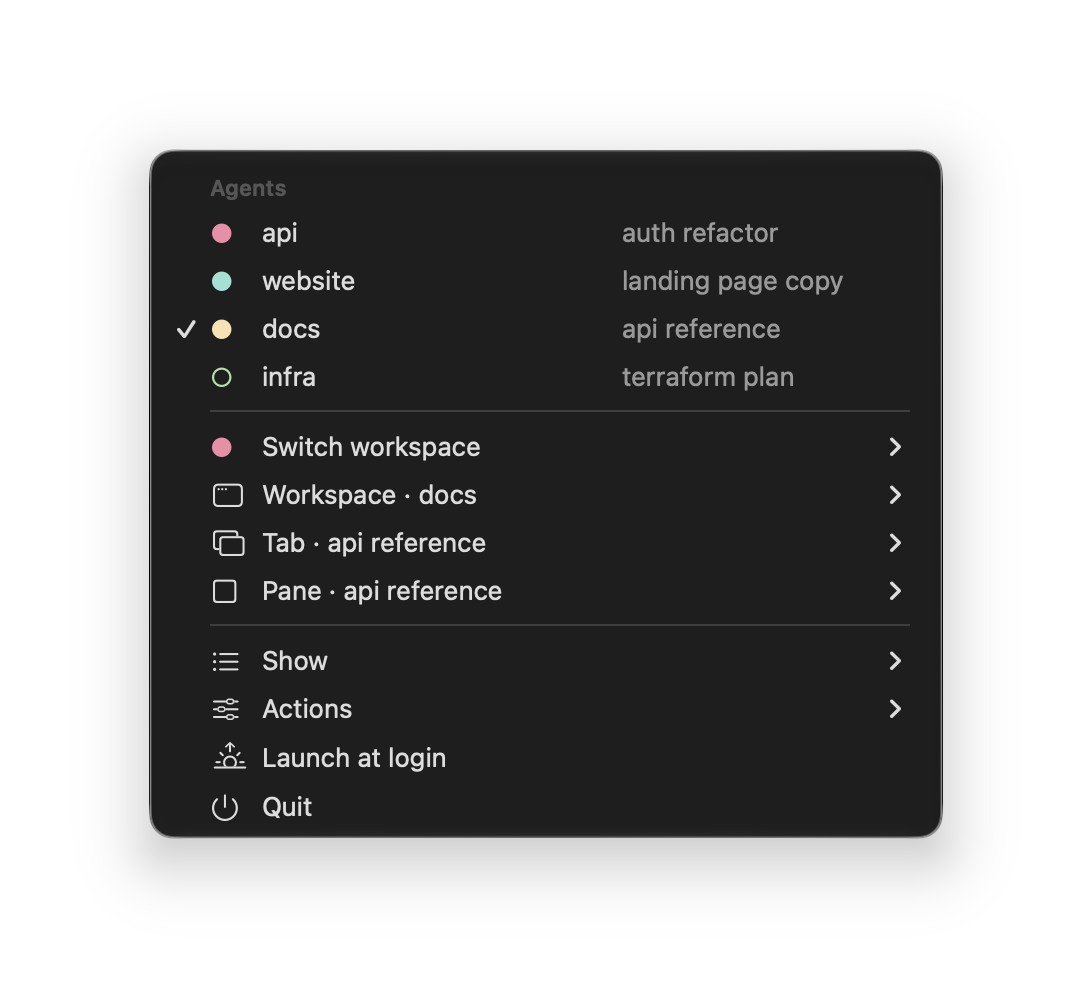
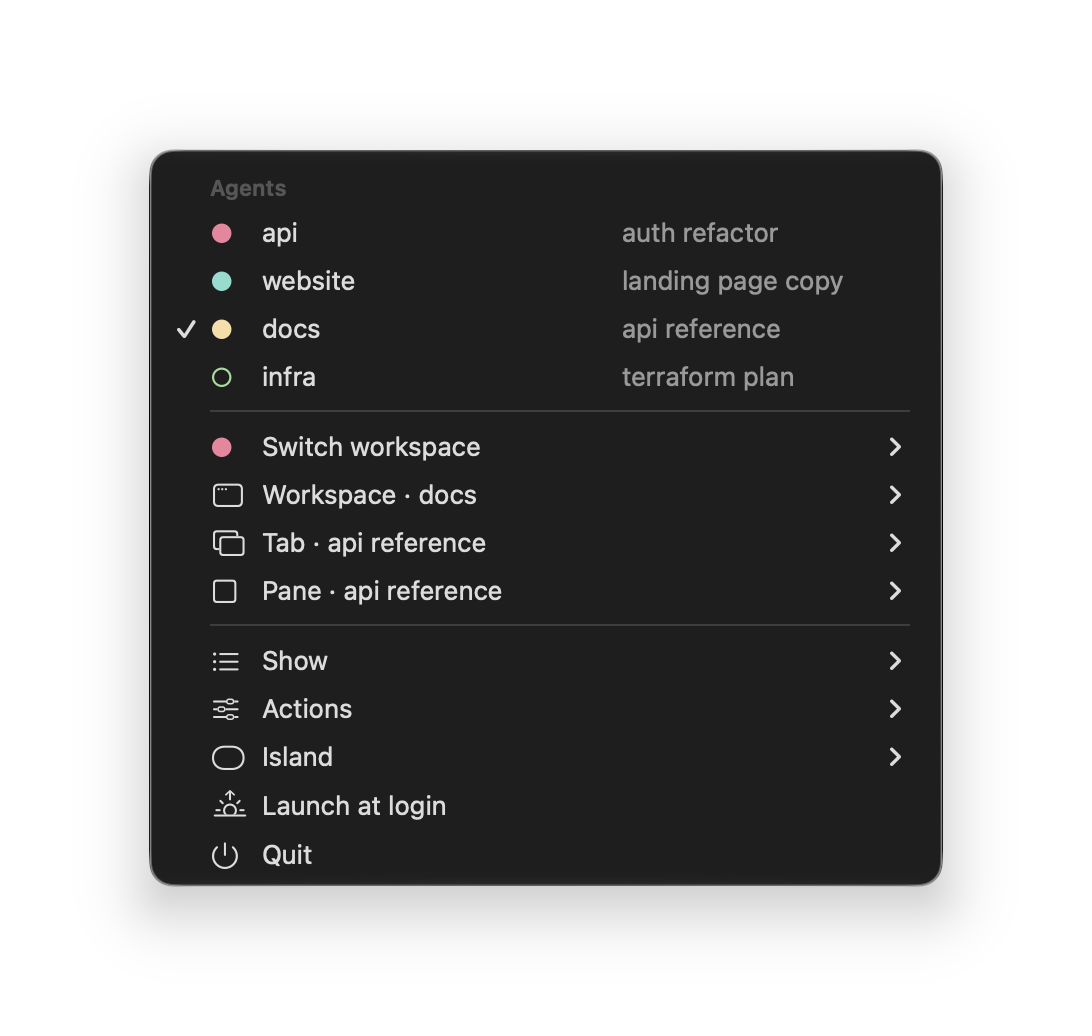
docs: retake the menu screenshots and add one of cmux mode
The menu shots predate the Island row, and the collapsed island had the old 28pt ears. All taken from fake herdr, rex and cmux CLIs.

Changed region(s): [[0.1245, 0.1215, 0.8718, 0.8806], [0.8095, 0.668, 0.8407, 0.7287], [0.1245, 0.1518, 0.1557, 0.1822]]

diff --git a/README.md b/README.md
@@ -67,7 +67,7 @@ Clicking a remote agent moves focus on that machine's server. You only see it if
 ### Rex
 
 <p align="center">
-  <img src="screenshots/rex.png" width="400" alt="The menu in Rex mode with both open: the herdr / Rex switch at the top, then agents with a checkmark on the one in the session Rex shows, Switch session, and the Session, Tab and Pane submenus named after that session">
+  <img src="screenshots/rex.png" width="400" alt="The menu in Rex mode with herdr and Rex open: the herdr / Rex switch at the top, then agents with a checkmark on the one in the session Rex shows, Switch session, and the Session, Tab and Pane submenus named after that session">
 </p>
 
 The menu drives whichever of **herdr**, **[Rex](https://www.superlogical.com/rex)** and **[cmux](#cmux)** is open. When several are, a switch at the top of the menu picks one. In Rex mode the menu works the same way, in Rex's words:
@@ -82,6 +82,10 @@ The menu drives whichever of **herdr**, **[Rex](https://www.superlogical.com/rex
 The icon shows while a herdr client, the Rex app or cmux is open. The badge counts the agents of the one the menu drives. It needs the `rex` CLI that comes with Rex.
 
 ### cmux
+
+<p align="center">
+  <img src="screenshots/cmux.png" width="400" alt="The menu in cmux mode with herdr, Rex and cmux open: the herdr / Rex / cmux switch at the top with cmux ticked, then agents with a checkmark on the one in the workspace cmux shows, Switch workspace, and the Workspace, Tab and Pane submenus">
+</p>
 
 The menu drives **[cmux](https://cmux.com)** too, and its agents show in [the island](#the-island) alongside herdr's and Rex's.
 
@@ -98,7 +102,7 @@ It finds cmux wherever the app is installed, and uses the `cmux` CLI inside it.
 ### The island
 
 <p align="center">
-  <img src="screenshots/island-collapsed.png" width="221" alt="The collapsed island around the notch: an orange hand on the left and the number 1 on the right">
+  <img src="screenshots/island-collapsed.png" width="205" alt="The collapsed island around the notch: an orange hand on the left and the number 1 on the right">
 </p>
 
 <p align="center">
